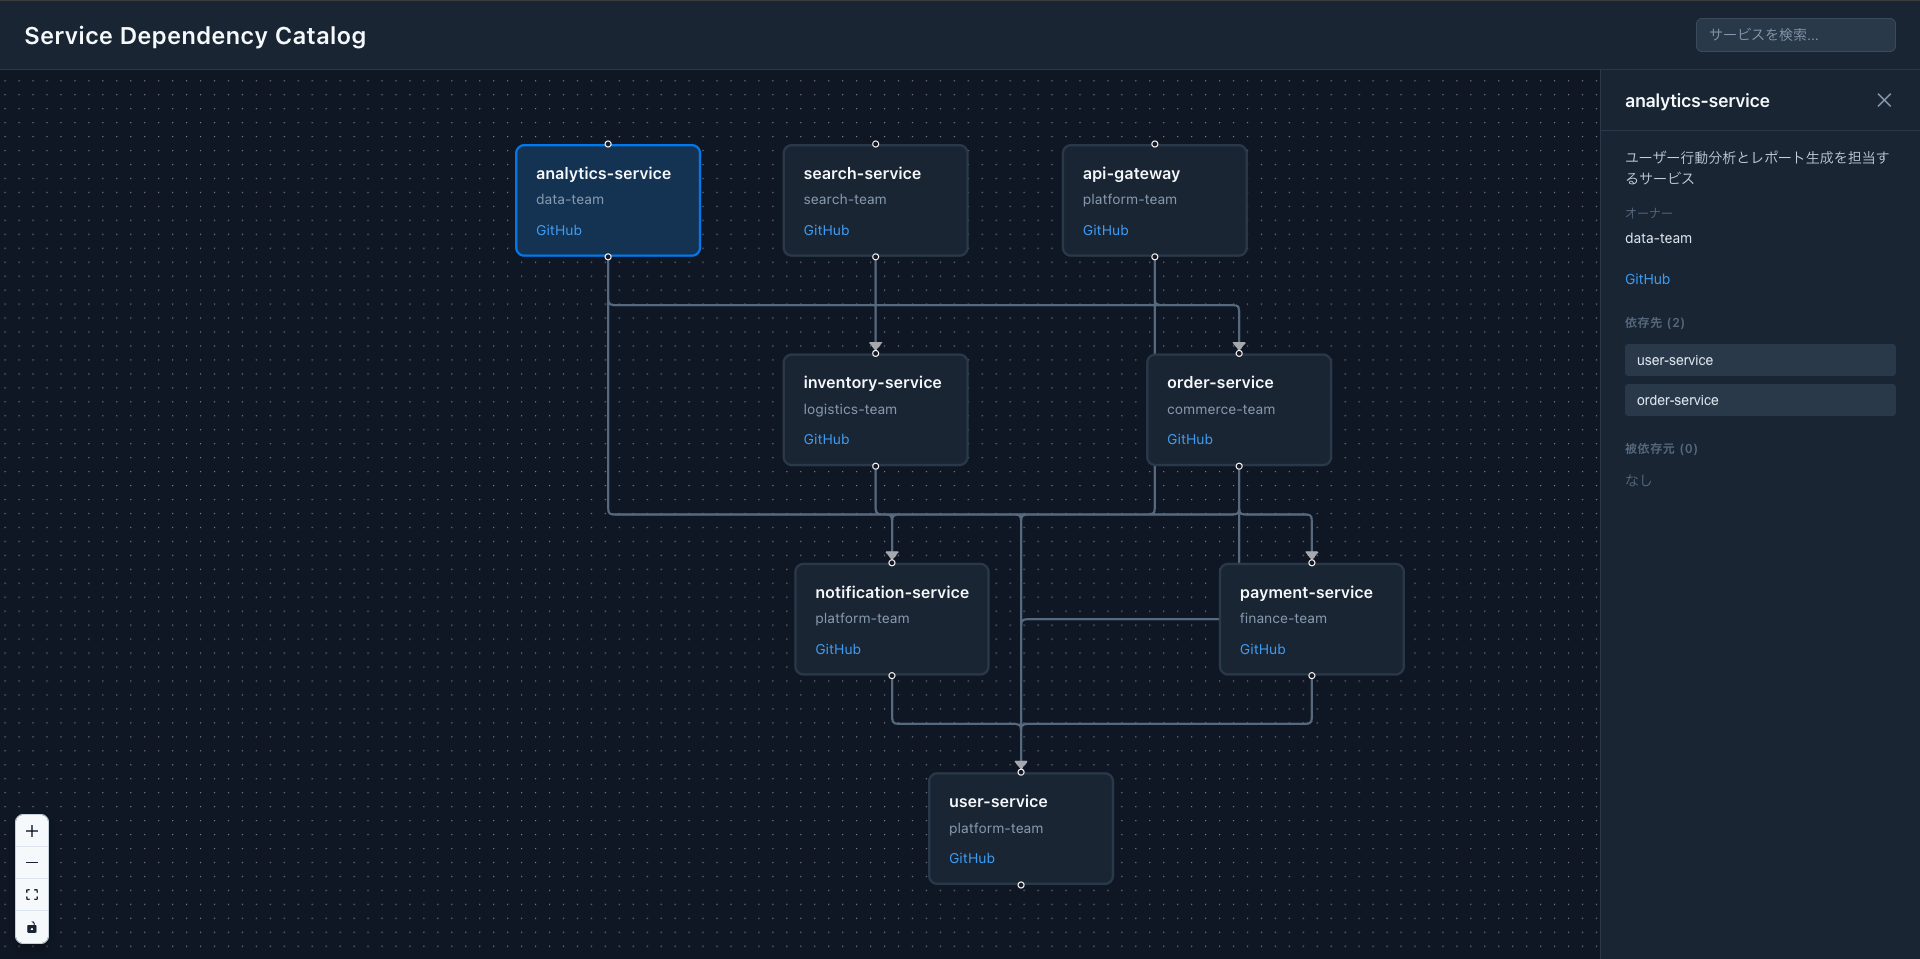
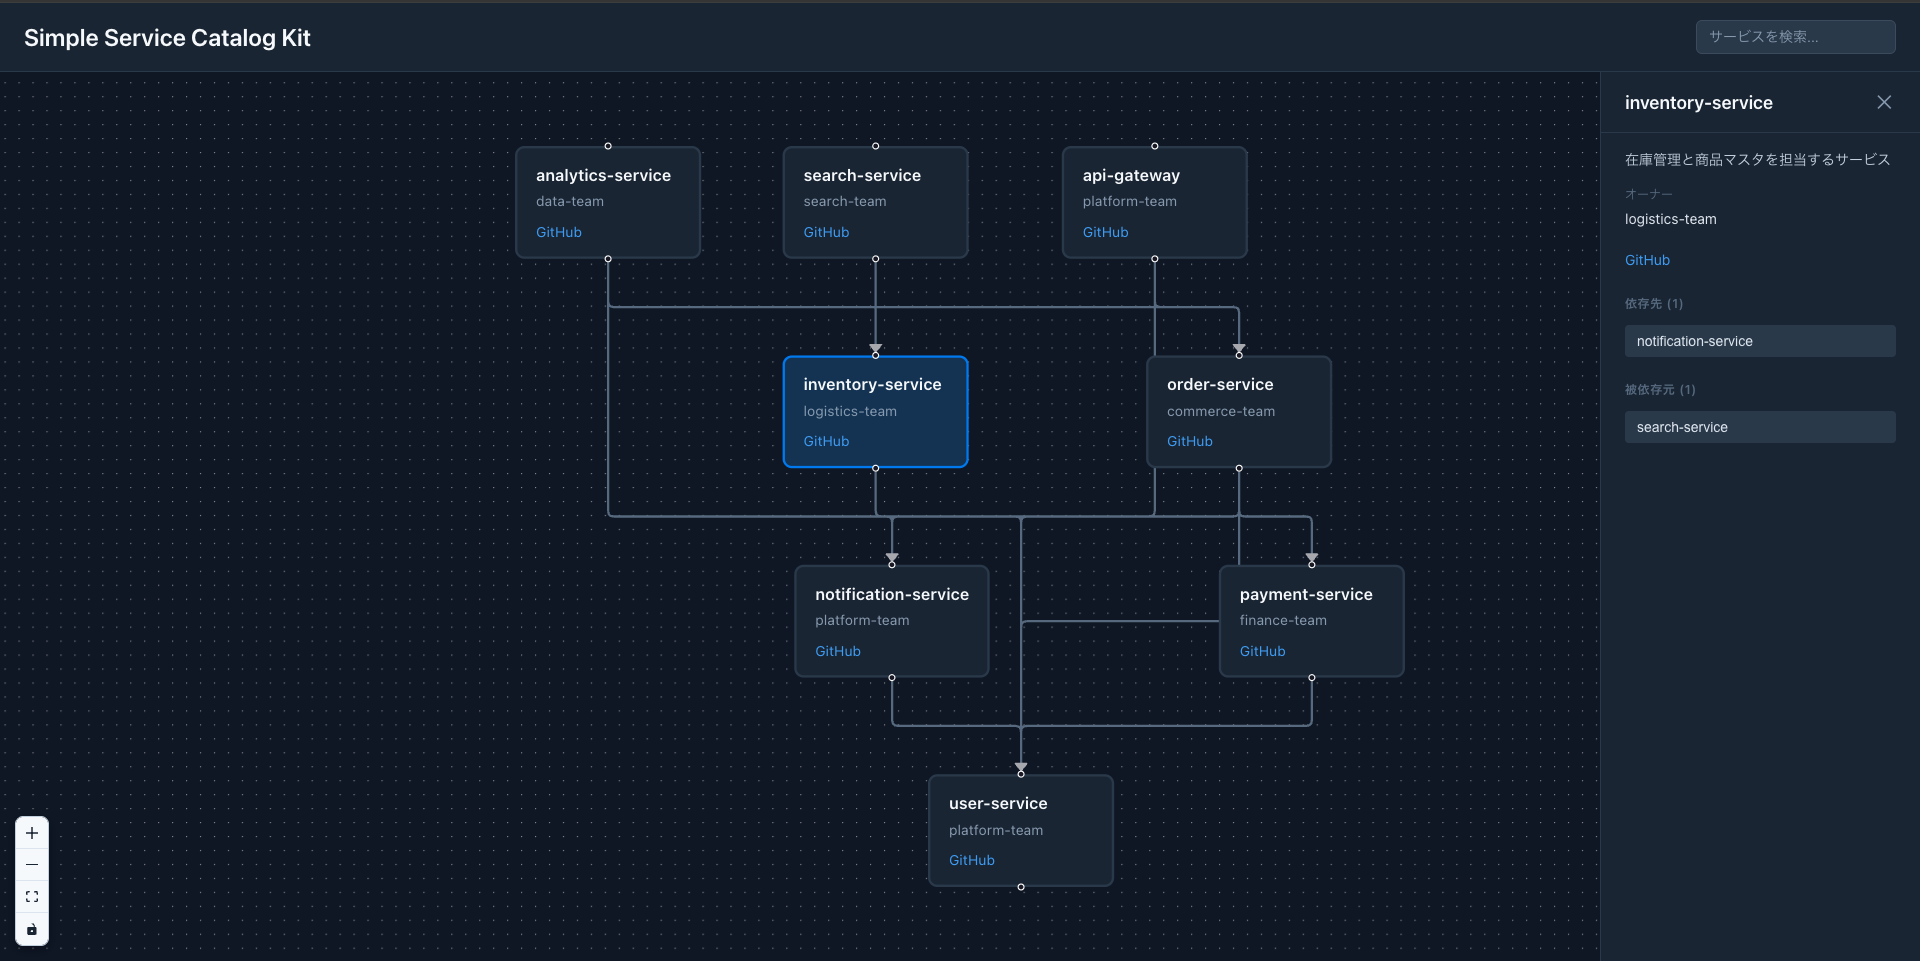
hosting

diff --git a/src/utils/service-loader.ts b/src/utils/service-loader.ts
@@ -13,47 +13,74 @@ export interface LoadResult {
 }
 
 /**
+ * サービスインデックスの型
+ */
+interface ServiceIndex {
+  services: string[]
+}
+
+type FetchResult =
+  | { service: Service }
+  | { fileName: string; error: string }
+
+/**
  * services/ フォルダからすべてのYAMLファイルを読み込む
- * Vite glob importを使用
+ * S3デプロイ対応のためfetchを使用
  */
 export async function loadAllServices(): Promise<LoadResult> {
   const services: Service[] = []
   const errors: Array<{ fileName: string; error: string }> = []
 
-  // Vite glob importでYAMLファイルを読み込む
-  const yamlModules = import.meta.glob('/services/*.yml', {
-    query: '?raw',
-    import: 'default',
-  })
-
-  for (const [path, loader] of Object.entries(yamlModules)) {
-    // ファイル名からサービス名を抽出（例: /services/user-service.yml → user-service）
-    const fileName = path.split('/').pop() ?? ''
-    const serviceName = fileName.replace(/\.ya?ml$/, '')
-
-    try {
-      const content = (await loader()) as string
-      const parseResult = parseServiceYaml(content, serviceName)
-
-      if (!parseResult.success) {
-        errors.push({ fileName, error: parseResult.error })
-        continue
-      }
-
-      const validationResult = validateService(parseResult.data)
-      if (!validationResult.valid) {
-        errors.push({
-          fileName,
-          error: validationResult.errors.join(', '),
-        })
-        continue
-      }
-
-      services.push(parseResult.data)
-    } catch (error) {
-      const message = error instanceof Error ? error.message : '不明なエラー'
-      errors.push({ fileName, error: message })
+  try {
+    // index.jsonからサービス一覧を取得
+    const indexResponse = await fetch('/services/index.json')
+    if (!indexResponse.ok) {
+      throw new Error(`Failed to fetch service index: ${indexResponse.status}`)
     }
+
+    const index: ServiceIndex = await indexResponse.json()
+
+    // 各サービスファイルを並列で取得
+    const fetchPromises = index.services.map(async (fileName): Promise<FetchResult> => {
+      const serviceName = fileName.replace(/\.ya?ml$/, '')
+
+      try {
+        const response = await fetch(`/services/${fileName}`)
+        if (!response.ok) {
+          return { fileName, error: `HTTP ${response.status}` }
+        }
+
+        const content = await response.text()
+        const parseResult = parseServiceYaml(content, serviceName)
+
+        if (!parseResult.success) {
+          return { fileName, error: parseResult.error }
+        }
+
+        const validationResult = validateService(parseResult.data)
+        if (!validationResult.valid) {
+          return { fileName, error: validationResult.errors.join(', ') }
+        }
+
+        return { service: parseResult.data }
+      } catch (error) {
+        const message = error instanceof Error ? error.message : '不明なエラー'
+        return { fileName, error: message }
+      }
+    })
+
+    const results = await Promise.all(fetchPromises)
+
+    for (const result of results) {
+      if ('service' in result) {
+        services.push(result.service)
+      } else {
+        errors.push({ fileName: result.fileName, error: result.error })
+      }
+    }
+  } catch (error) {
+    const message = error instanceof Error ? error.message : '不明なエラー'
+    errors.push({ fileName: 'index.json', error: message })
   }
 
   return { services, errors }

diff --git a/scripts/generate-service-index.ts b/scripts/generate-service-index.ts
@@ -1,0 +1,115 @@
+#!/usr/bin/env npx tsx
+/**
+ * services/index.json を生成するスクリプト
+ *
+ * S3デプロイ時に、サービス一覧を動的に取得するために使用
+ *
+ * 使用方法:
+ *   npx tsx scripts/generate-service-index.ts [options]
+ *
+ * オプション:
+ *   --input <dir>   サービス定義ディレクトリ (デフォルト: ./services)
+ *   --output <file> 出力ファイルパス (デフォルト: ./services/index.json)
+ */
+
+import * as fs from 'node:fs'
+import * as path from 'node:path'
+
+export interface Config {
+  inputDir: string
+  outputFile: string
+}
+
+/**
+ * コマンドライン引数をパース
+ */
+export function parseArgs(args: string[] = process.argv.slice(2)): Config {
+  const config: Config = {
+    inputDir: './services',
+    outputFile: './services/index.json',
+  }
+
+  for (let i = 0; i < args.length; i++) {
+    switch (args[i]) {
+      case '--input':
+        config.inputDir = args[++i]
+        break
+      case '--output':
+        config.outputFile = args[++i]
+        break
+      case '--help':
+        console.log(`
+services/index.json を生成
+
+使用方法:
+  npx tsx scripts/generate-service-index.ts [options]
+
+オプション:
+  --input <dir>   サービス定義ディレクトリ (デフォルト: ./services)
+  --output <file> 出力ファイルパス (デフォルト: ./services/index.json)
+  --help          ヘルプを表示
+`)
+        process.exit(0)
+    }
+  }
+
+  return config
+}
+
+/**
+ * ファイル一覧からYAMLファイルのみを抽出
+ */
+export function getServiceFiles(files: string[]): string[] {
+  return files.filter((f) => /\.ya?ml$/.test(f)).sort()
+}
+
+/**
+ * サービスインデックスJSONを生成
+ */
+export function generateIndex(files: string[]): string {
+  return JSON.stringify({ services: files }, null, 2)
+}
+
+/**
+ * メイン処理
+ */
+async function main() {
+  const config = parseArgs()
+
+  console.log('📁 サービスインデックスを生成中...')
+  console.log(`   入力: ${config.inputDir}`)
+  console.log(`   出力: ${config.outputFile}`)
+
+  // ディレクトリの存在確認
+  if (!fs.existsSync(config.inputDir)) {
+    console.error(`❌ ディレクトリが見つかりません: ${config.inputDir}`)
+    process.exit(1)
+  }
+
+  // ファイル一覧を取得
+  const allFiles = fs.readdirSync(config.inputDir)
+  const serviceFiles = getServiceFiles(allFiles)
+
+  console.log(`   ✓ ${serviceFiles.length}件のサービスファイルを検出`)
+
+  // インデックスを生成
+  const indexJson = generateIndex(serviceFiles)
+
+  // ファイルに書き込み
+  const outputDir = path.dirname(config.outputFile)
+  if (!fs.existsSync(outputDir)) {
+    fs.mkdirSync(outputDir, { recursive: true })
+  }
+
+  fs.writeFileSync(config.outputFile, indexJson)
+  console.log(`✅ 完了: ${config.outputFile}`)
+}
+
+// CLIとして直接実行された場合のみmainを実行
+const isDirectRun = process.argv[1]?.includes('generate-service-index')
+if (isDirectRun) {
+  main().catch((error) => {
+    console.error('エラー:', error)
+    process.exit(1)
+  })
+}

diff --git a/tests/unit/generate-service-index.test.ts b/tests/unit/generate-service-index.test.ts
@@ -1,0 +1,53 @@
+import { describe, expect, it } from 'vitest'
+import {
+  generateIndex,
+  getServiceFiles,
+} from '../../scripts/generate-service-index'
+
+describe('getServiceFiles', () => {
+  it('YAMLファイルのみを抽出する', () => {
+    const files = ['user-service.yml', 'api-gateway.yml', 'README.md', 'config.json']
+    const result = getServiceFiles(files)
+    expect(result).toEqual(['api-gateway.yml', 'user-service.yml'])
+  })
+
+  it('.yamlと.ymlの両方をサポート', () => {
+    const files = ['service-a.yml', 'service-b.yaml']
+    const result = getServiceFiles(files)
+    expect(result).toEqual(['service-a.yml', 'service-b.yaml'])
+  })
+
+  it('空配列を処理', () => {
+    const result = getServiceFiles([])
+    expect(result).toEqual([])
+  })
+
+  it('ソートされた順序で返す', () => {
+    const files = ['z-service.yml', 'a-service.yml', 'm-service.yml']
+    const result = getServiceFiles(files)
+    expect(result).toEqual(['a-service.yml', 'm-service.yml', 'z-service.yml'])
+  })
+})
+
+describe('generateIndex', () => {
+  it('JSONインデックスを生成する', () => {
+    const files = ['user-service.yml', 'api-gateway.yml']
+    const result = generateIndex(files)
+    const parsed = JSON.parse(result)
+    expect(parsed).toEqual({
+      services: ['user-service.yml', 'api-gateway.yml'],
+    })
+  })
+
+  it('空配列でも正しく生成する', () => {
+    const result = generateIndex([])
+    const parsed = JSON.parse(result)
+    expect(parsed).toEqual({ services: [] })
+  })
+
+  it('整形されたJSONを出力する', () => {
+    const files = ['service.yml']
+    const result = generateIndex(files)
+    expect(result).toContain('\n')
+  })
+})

diff --git a/tests/integration/empty-folder.test.tsx b/tests/integration/empty-folder.test.tsx
@@ -60,7 +60,7 @@ describe('Empty Folder Handling', () => {
 
     await screen.findByText(/サービスが見つかりません/)
 
-    expect(screen.getByText('Service Dependency Catalog')).toBeInTheDocument()
+    expect(screen.getByText('Simple Service Catalog Kit')).toBeInTheDocument()
   })
 
   it('すべてのYAMLにエラーがあり、有効なサービスがない場合はエラー状態になる', async () => {

diff --git a/tests/e2e/app.spec.ts b/tests/e2e/app.spec.ts
@@ -5,7 +5,7 @@ test.describe('Service Catalog App', () => {
     await page.goto('/')
 
     // ヘッダーが表示される
-    await expect(page.getByText('Service Dependency Catalog')).toBeVisible()
+    await expect(page.getByText('Simple Service Catalog Kit')).toBeVisible()
 
     // グラフエリアが表示される
     await expect(page.locator('.react-flow')).toBeVisible()

diff --git a/tests/integration/full-integration.test.tsx b/tests/integration/full-integration.test.tsx
@@ -93,7 +93,7 @@ describe('Full Integration Test', () => {
     render(<App />)
 
     // ヘッダーが表示される
-    expect(screen.getByText('Service Dependency Catalog')).toBeInTheDocument()
+    expect(screen.getByText('Simple Service Catalog Kit')).toBeInTheDocument()
 
     // グラフが表示される
     await waitFor(() => {

diff --git a/index.html b/index.html
@@ -4,7 +4,7 @@
     <meta charset="UTF-8" />
     <link rel="icon" type="image/svg+xml" href="/vite.svg" />
     <meta name="viewport" content="width=device-width, initial-scale=1.0" />
-    <title>Service Dependency Catalog</title>
+    <title>Simple Service Catalog Kit</title>
   </head>
   <body>
     <div id="root"></div>

diff --git a/src/App.tsx b/src/App.tsx
@@ -23,7 +23,7 @@ function App() {
   return (
     <div className="app">
       <header className="app-header">
-        <h1>Service Dependency Catalog</h1>
+        <h1>Simple Service Catalog Kit</h1>
         {state === 'success' && services.length > 0 && (
           <SearchBar
             value={searchQuery}

diff --git a/README.md b/README.md
@@ -174,6 +174,58 @@ pnpm generate:datadog -- --env production --dry-run
 - `us5.datadoghq.com` (US5)
 - `ddog-gov.com` (US1-FED)
 
+## S3へのデプロイ
+
+このアプリはS3 + CloudFrontで静的ホスティングが可能です。
+
+### ビルドと準備
+
+```bash
+# ビルド（自動的にindex.jsonが生成されます）
+pnpm build
+
+# 出力される dist/ フォルダの構成
+dist/
+├── index.html
+├── assets/
+│   ├── index-*.css
+│   └── index-*.js
+└── services/
+    ├── index.json        # サービス一覧
+    ├── api-gateway.yml   # 各サービス定義
+    └── ...
+```
+
+### S3バケット設定
+
+1. S3バケットを作成（静的ウェブサイトホスティングを有効化）
+2. `dist/` フォルダの内容をバケットにアップロード
+3. CloudFrontディストリビューションを作成（オプション、推奨）
+
+### デプロイコマンド例
+
+```bash
+# AWS CLIでS3にデプロイ
+aws s3 sync dist/ s3://your-bucket-name --delete
+
+# CloudFrontのキャッシュを無効化
+aws cloudfront create-invalidation \
+  --distribution-id YOUR_DISTRIBUTION_ID \
+  --paths "/*"
+```
+
+### サービス定義の更新
+
+S3上のYAMLファイルを直接更新することで、アプリを再ビルドせずにサービス定義を更新できます。
+
+```bash
+# index.jsonのみ再生成
+pnpm generate:index
+
+# 新しいサービスファイルとindex.jsonをS3にアップロード
+aws s3 sync services/ s3://your-bucket-name/services/
+```
+
 ## ライセンス
 
 MIT
